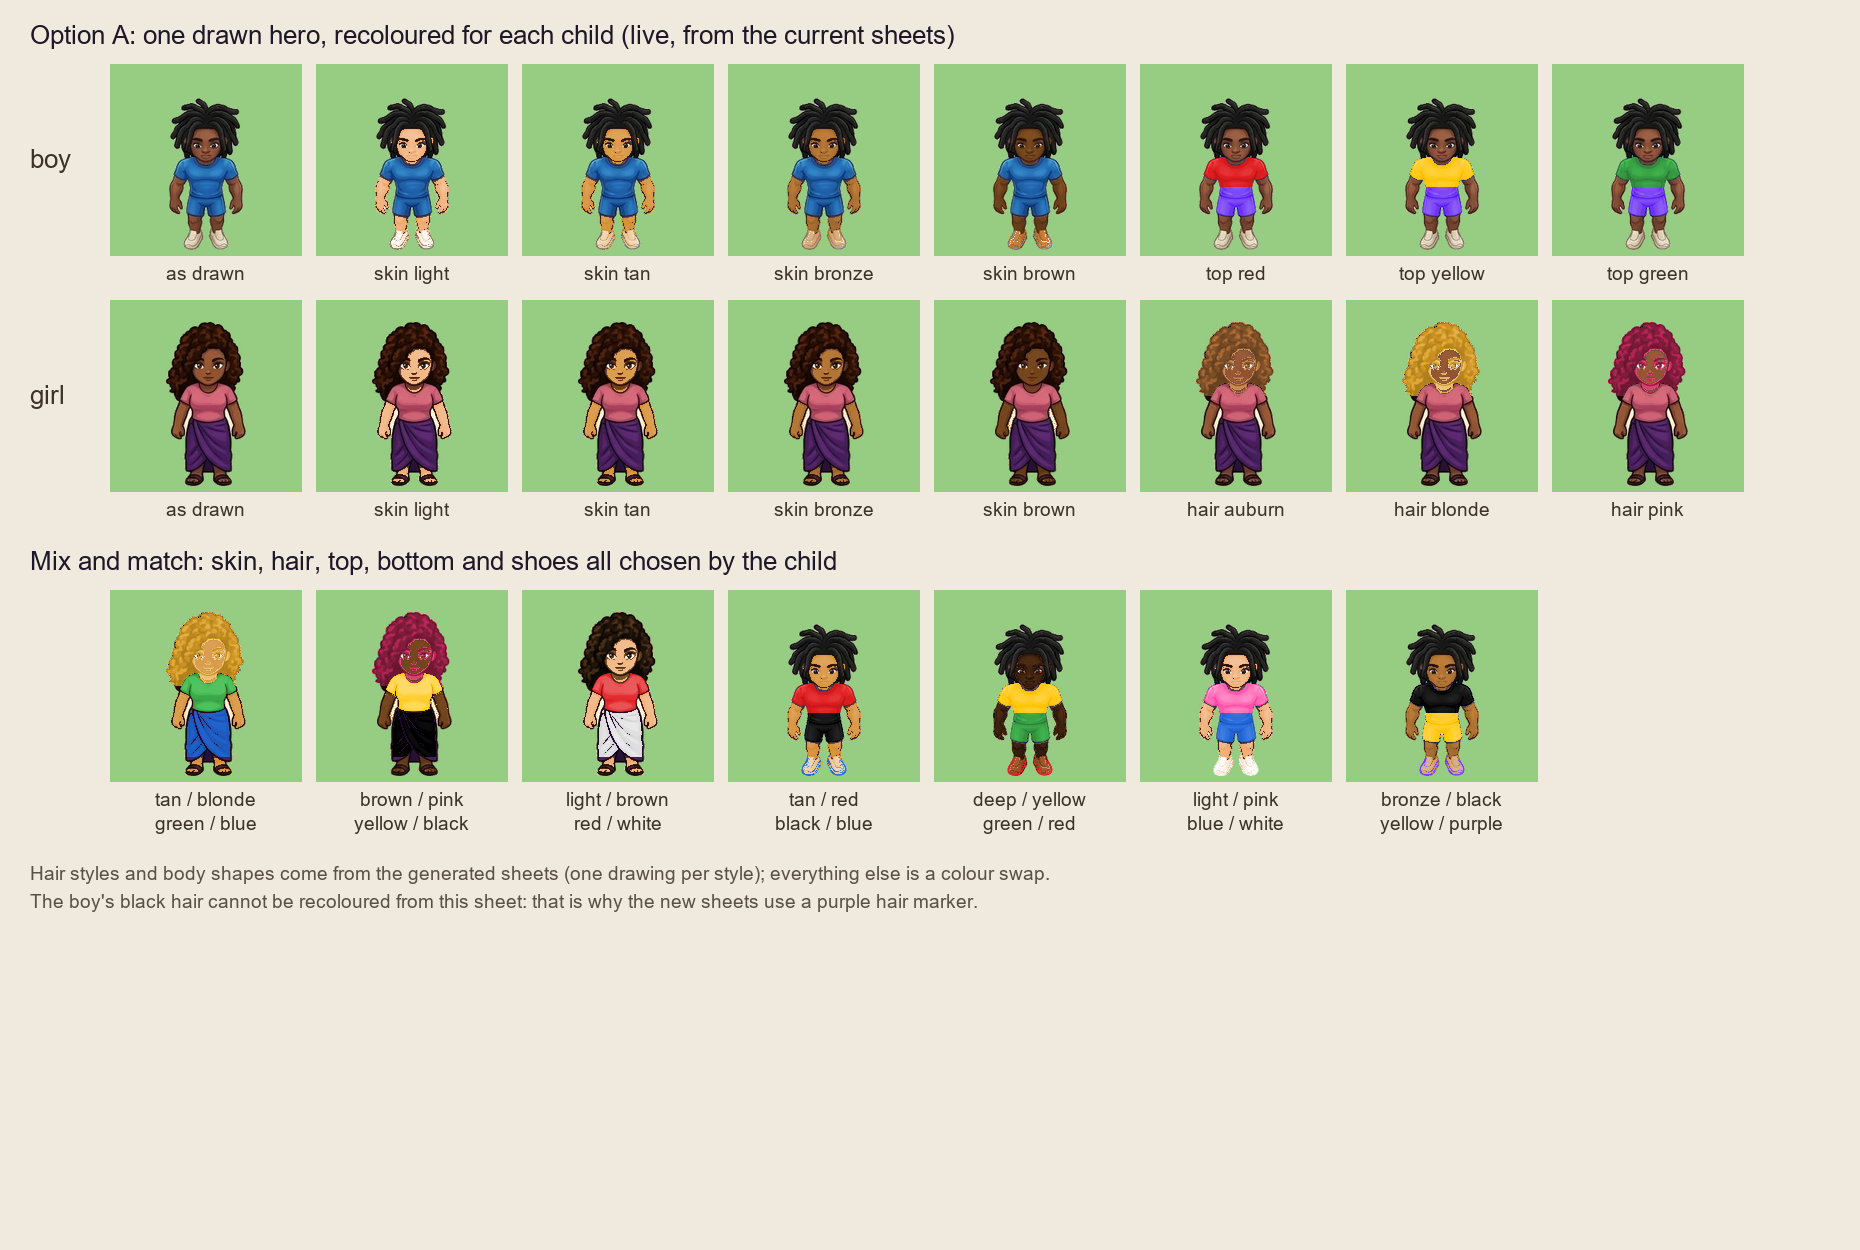
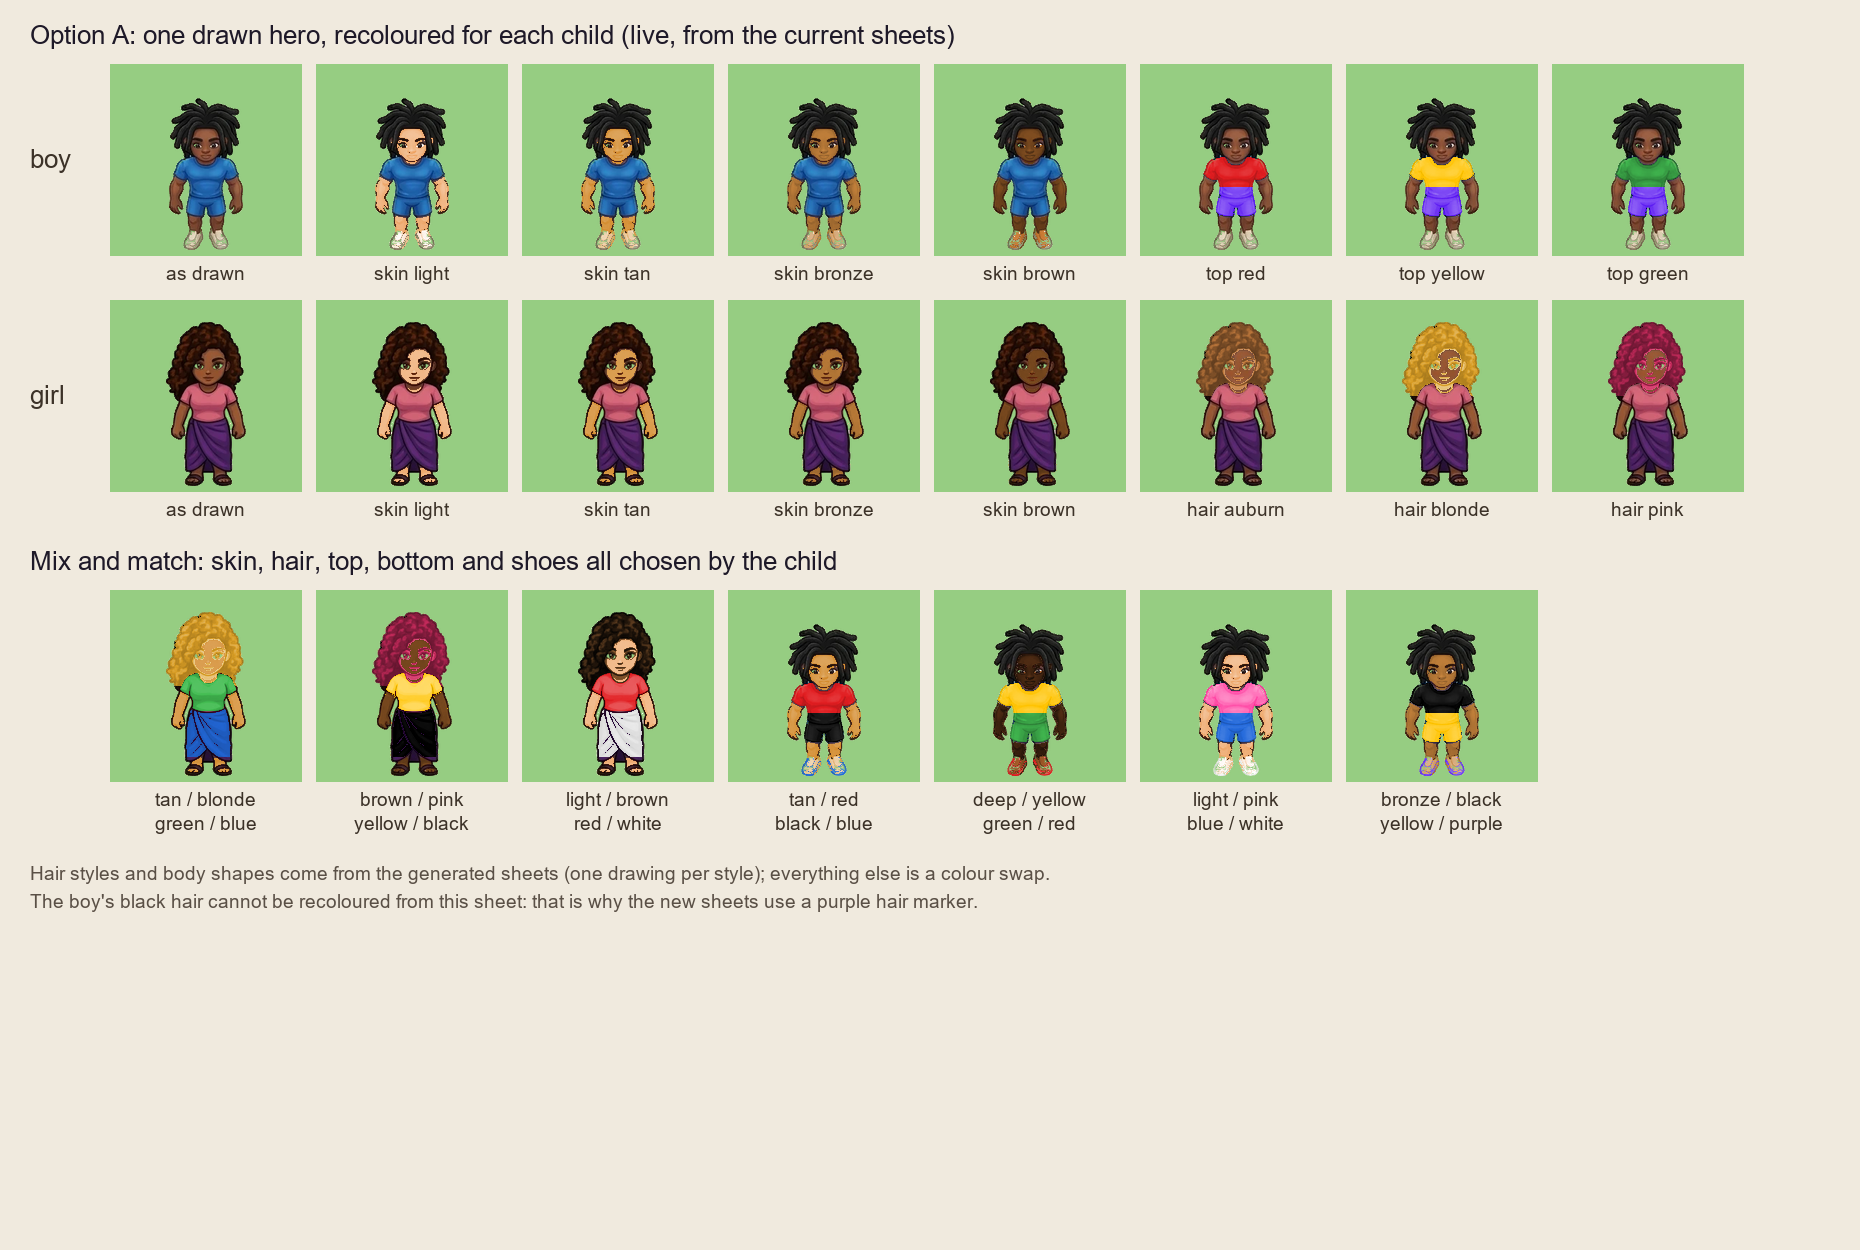
A board of villager style options: the hand-drawn figures the game already has, and villagers derived from the hero sheets by recolouring

diff --git a/tools/villager-options-board.py b/tools/villager-options-board.py
@@ -1,0 +1,53 @@
+"""A board of how the villagers could look in the smooth style: the figures already drawn by hand, and villagers
+derived from the hero sheets by recolouring, as the cheap route would produce them.
+
+Usage: python tools/villager-options-board.py <out png>
+"""
+import importlib.util, sys
+from PIL import Image, ImageDraw, ImageFont
+
+OUT = sys.argv[1] if len(sys.argv) > 1 else 'docs/art/villager-options.png'
+spec = importlib.util.spec_from_file_location('hob', 'tools/hero-options-board.py')
+# hero-options-board draws its own board on import; we only want its recolour(), so run it with its usual output
+sys.argv = ['hero-options-board.py', 'docs/art/hero-options.png']
+hob = importlib.util.module_from_spec(spec); spec.loader.exec_module(hob)
+
+CELL = 192
+def front(path): return Image.open(path).convert('RGBA').crop((0, 2 * CELL, CELL, 3 * CELL))
+
+board = Image.new('RGBA', (1860, 1000), (240, 234, 222, 255))
+d = ImageDraw.Draw(board)
+try: font = ImageFont.truetype('arial.ttf', 26); small = ImageFont.truetype('arial.ttf', 18)
+except Exception: font = small = ImageFont.load_default()
+def tile(img, x, y, label, sub=''):
+    bg = Image.new('RGBA', (CELL, CELL), (150, 205, 130, 255)); bg.alpha_composite(img)
+    board.paste(bg, (x, y)); d.text((x + CELL / 2, y + CELL + 6), label, fill=(60, 50, 40), font=small, anchor='ma')
+    if sub: d.text((x + CELL / 2, y + CELL + 28), sub, fill=(120, 110, 100), font=small, anchor='ma')
+
+d.text((30, 20), 'A. Drawn one by one: what Hope, Sam, Nurse Nia and the heroes already are', fill=(30, 25, 40), font=font)
+y = 64; x = 30
+for name, label in [('hope', 'Headmistress Hope'), ('sam', 'Sam'), ('nurse', 'Nurse Nia'), ('player', 'hero (boy)'), ('player-girl', 'hero (girl)')]:
+    tile(front(f'public/sprites/{name}.png'), x, y, label); x += CELL + 14
+
+d.text((30, 330), 'B. Derived from the hero sheets: recoloured per villager (cheap, but every villager is a child)', fill=(30, 25, 40), font=font)
+y = 374; x = 30
+S, H, C = hob.SKIN, hob.HAIR, hob.CLOTH
+derived = [
+    ('boy', dict(skin=S[0], top=C[4], bottom=C[7], shoes=C[6]), 'Professor Plus', 'purple polo, navy'),
+    ('girl', dict(skin=S[0], hair=H[1], top=C[6], bottom=C[0]), 'Chef Fraction', 'white top, red skirt'),
+    ('girl', dict(skin=S[1], hair=H[3], top=C[2], bottom=C[7]), 'Owl Librarian', 'green, brown'),
+    ('boy', dict(skin=S[2], top=C[3], bottom=C[6], shoes=C[7]), 'Robo Mechanic', 'blue, white'),
+    ('girl', dict(skin=S[3], hair=H[4], top=C[1], bottom=C[4]), 'Nina Notes', 'yellow, purple'),
+    ('boy', dict(skin=S[4], top=C[0], bottom=C[1], shoes=C[2]), 'Kofi the Drummer', 'red, yellow'),
+    ('girl', dict(skin=S[2], hair=H[0], top=C[5], bottom=C[3]), 'Mirror Mia', 'pink, blue'),
+    ('boy', dict(skin=S[1], top=C[2], bottom=C[7], shoes=C[6]), 'Chisel Charlie', 'green, black'),
+]
+for who, kw, name, sub in derived:
+    tile(hob.recolour(front(hob.SHEETS[who]), who, **kw), x, y, name, sub); x += CELL + 14
+
+d.text((30, 660), 'C. A few grown-up base sheets (woman, man; young, older) with marker colours, recoloured per villager, plus a hat or tool each.', fill=(30, 25, 40), font=font)
+d.text((30, 694), 'Nothing to show yet: those bases do not exist. They would come out in the style of row A and swap colours like row B.', fill=(90, 80, 70), font=small)
+d.text((30, 724), 'Bosses, the four hub hosts and the four hospital staff would still be drawn one by one, as in A.', fill=(90, 80, 70), font=small)
+d.text((30, 770), 'Counts: A = 45 drawings (36 villagers, 9 bosses). B = 0 new drawings beyond the hero sheets. C = about 6 base sheets + 13 drawn + one sheet of ~36 props.', fill=(60, 50, 40), font=small)
+board.convert('RGB').save(OUT)
+print('saved', OUT)
